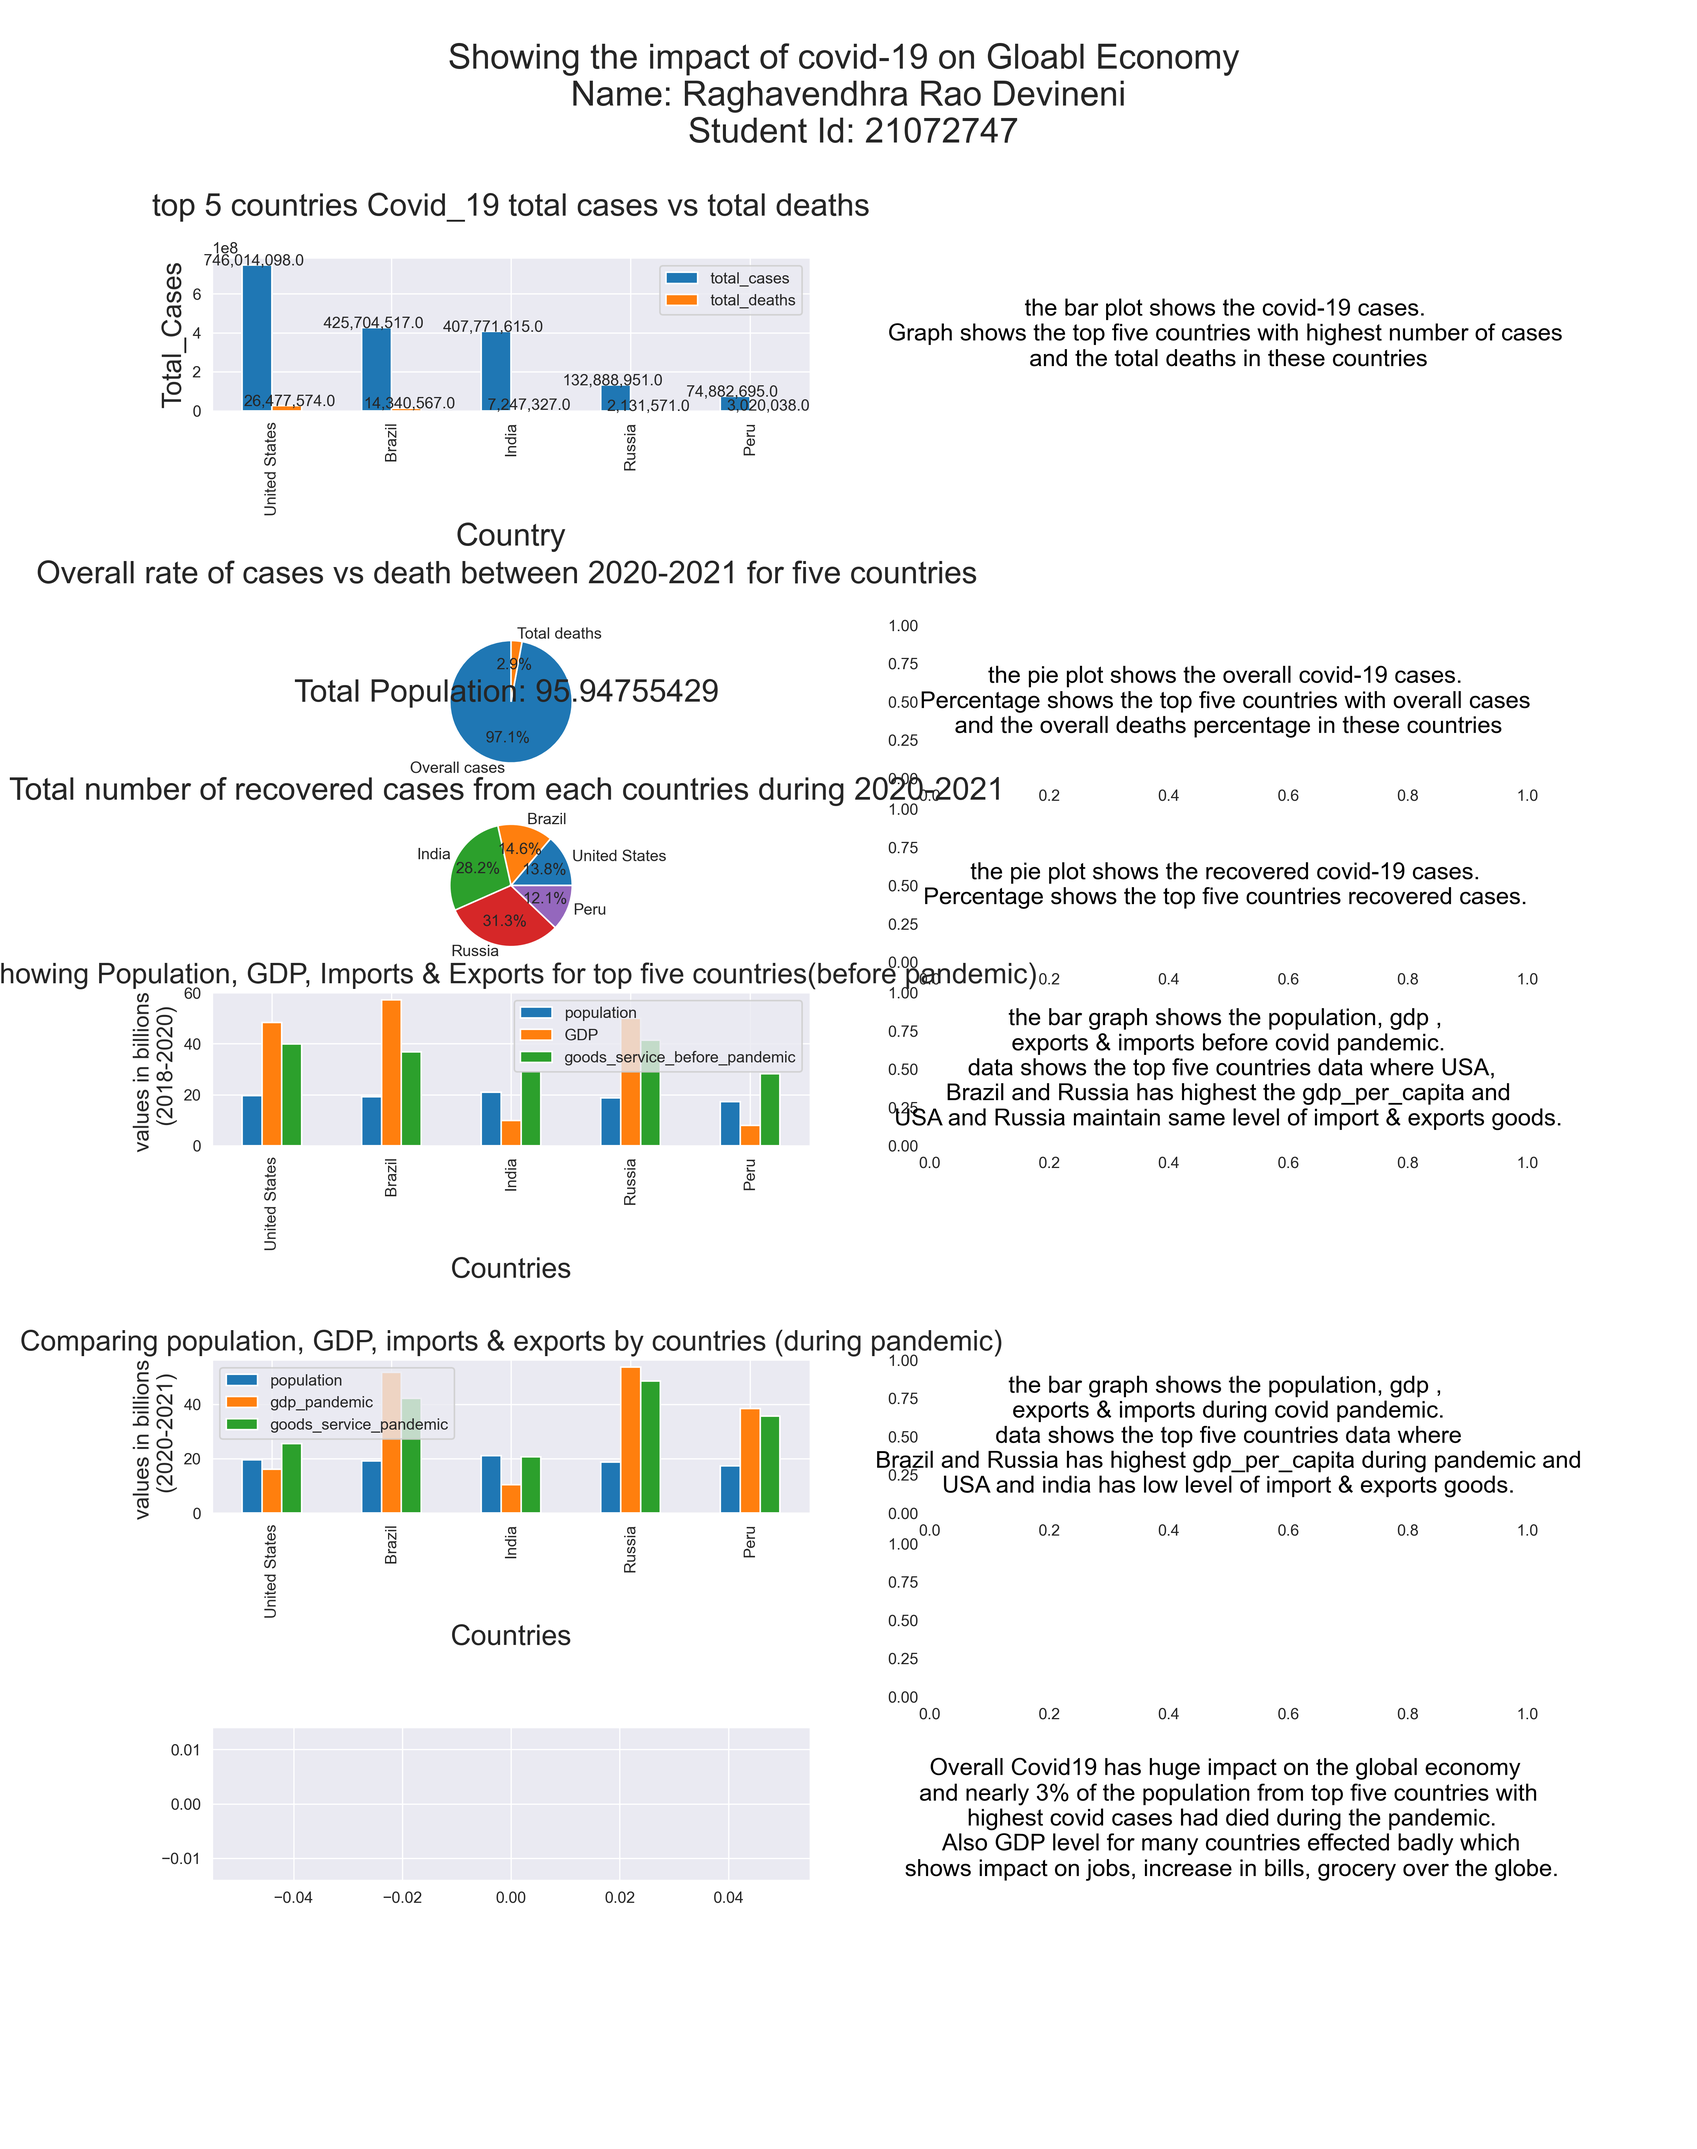
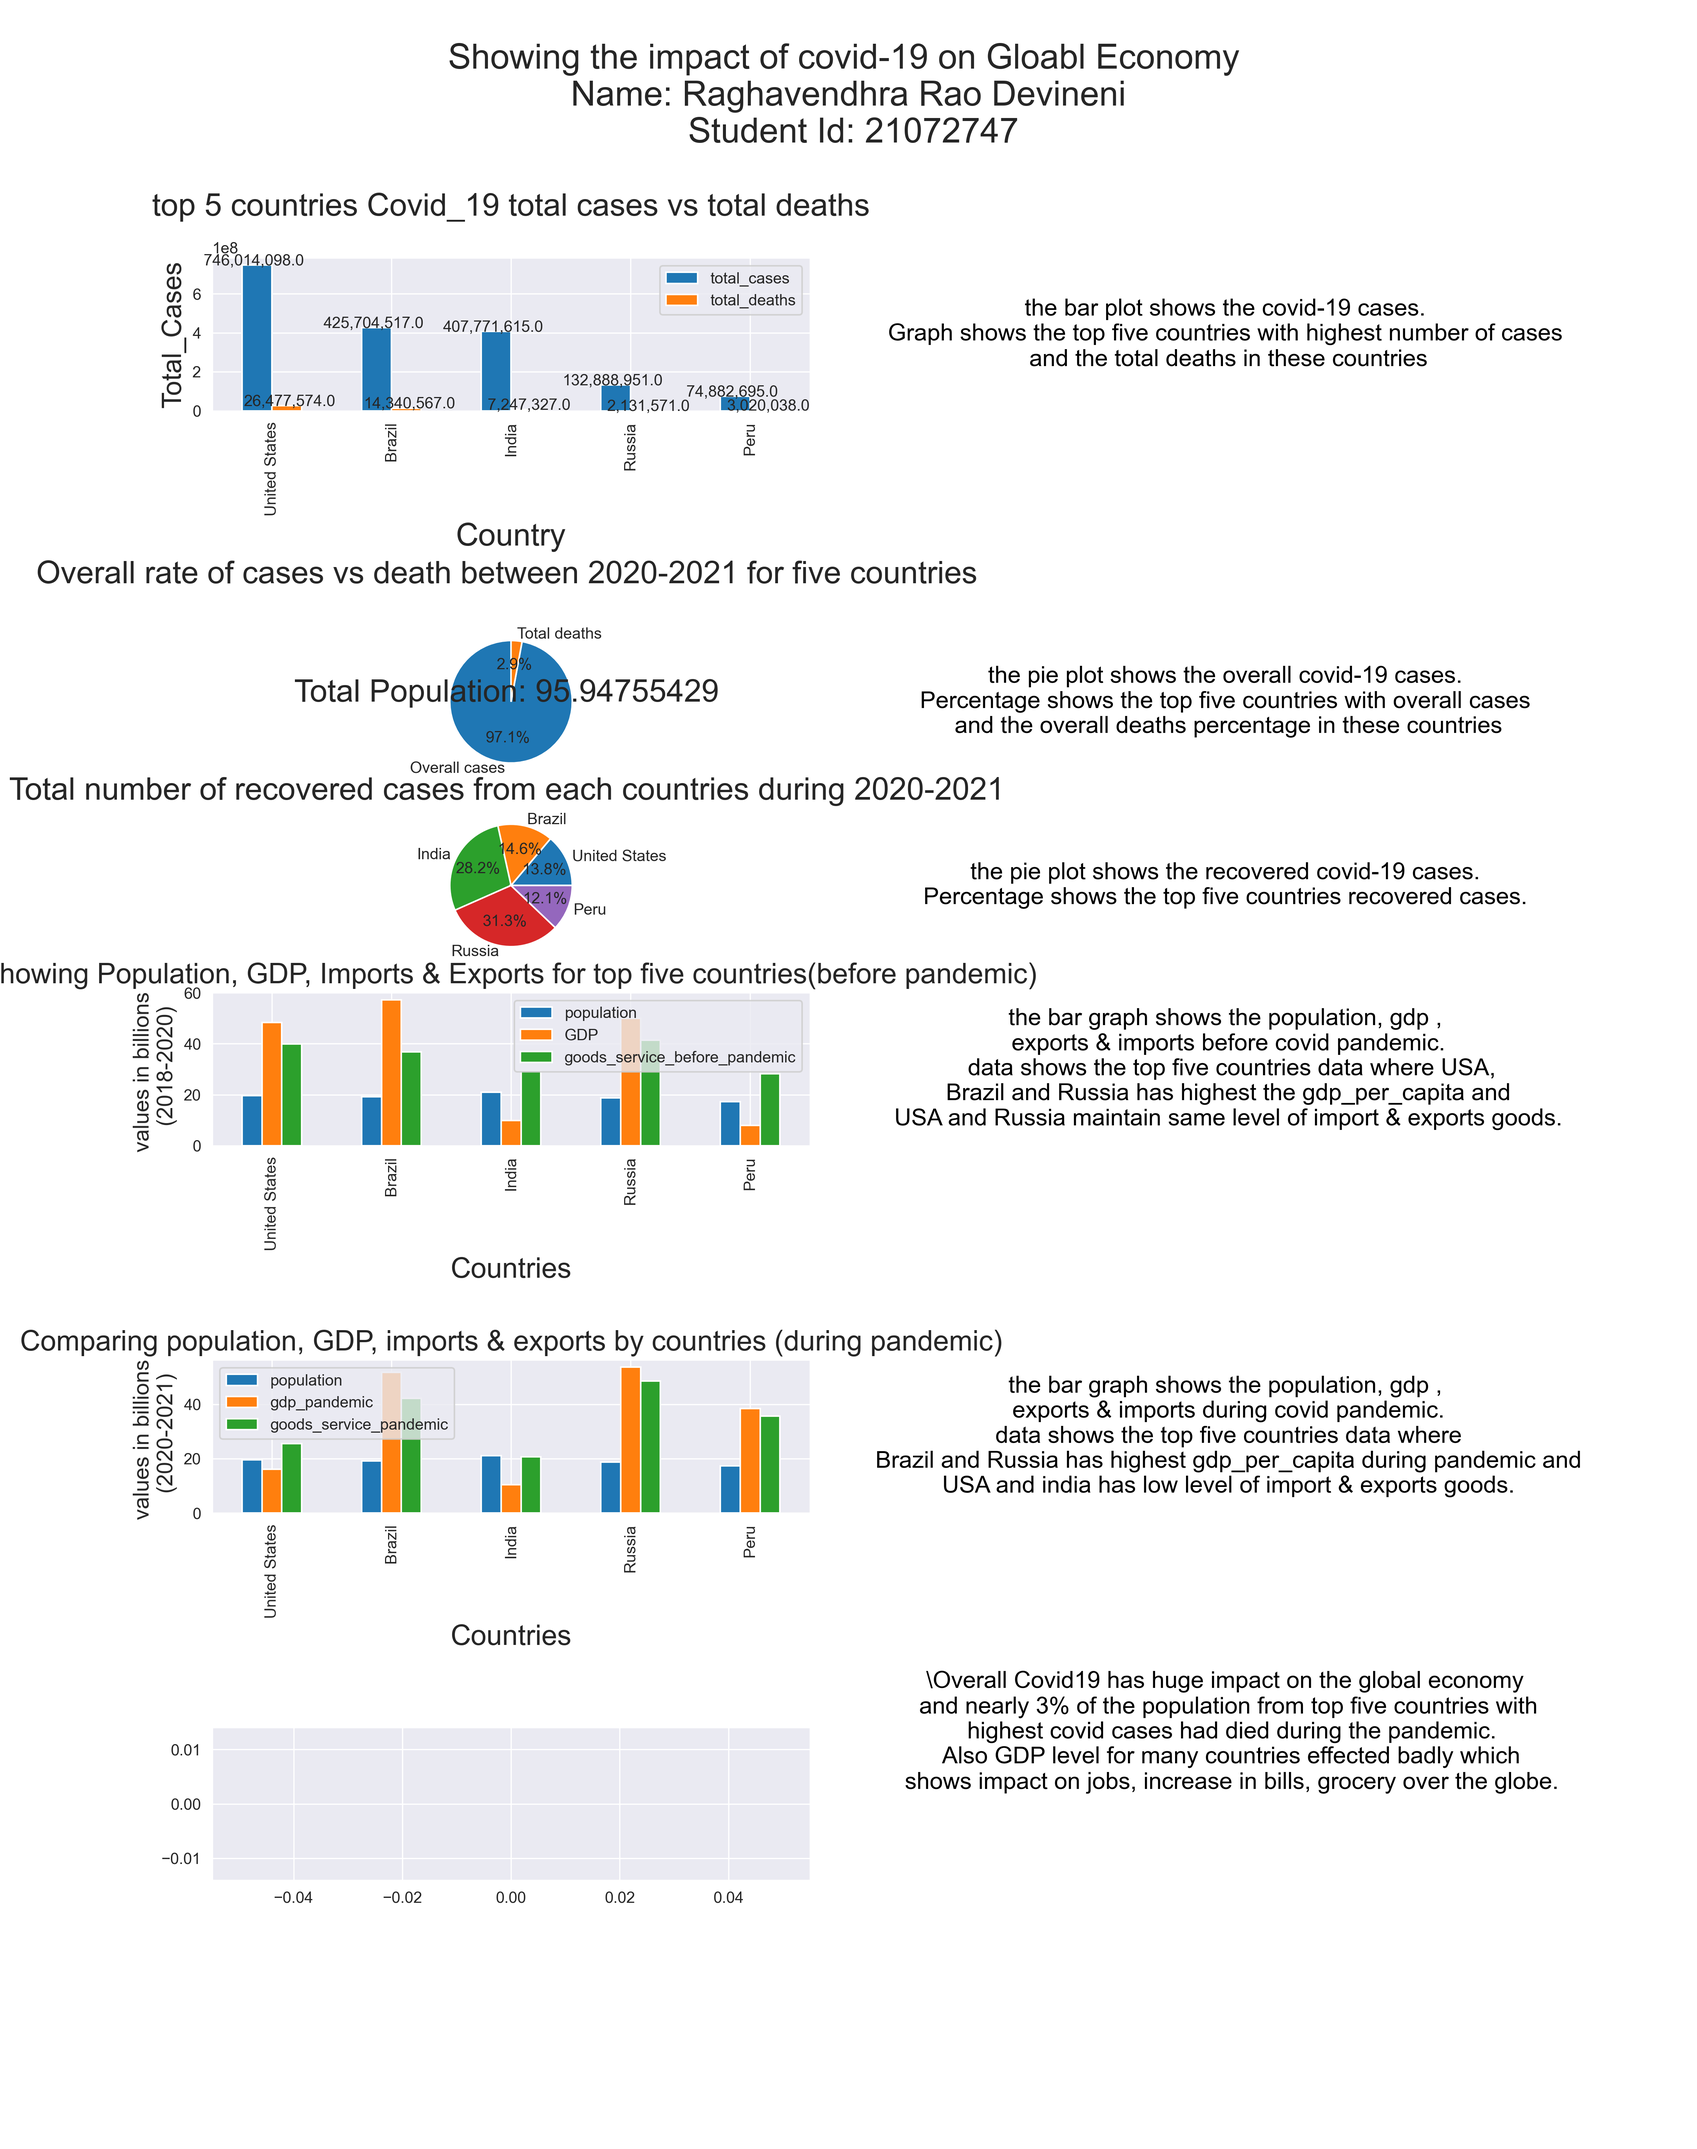
third commit

Changed region(s): [[0.5289, 0.7807, 0.9022, 0.8744]]

diff --git a/infographic.py b/infographic.py
@@ -221,14 +221,16 @@ def show_infographic_dashboard(gc_bar_data, gc_data, pandemic_before_imports_exp
     for x, (tc, td) in enumerate(zip(gc_bar_data['total_cases'] , gc_bar_data['total_deaths'])):
         ax1.text(x-0.15, tc + 20000, "{:,}".format(tc), ha='center',)
         ax1.text(x+0.15, td + 20000, "{:,}".format(td), ha='center',)
-    # plt.show()
+    # set the text backgroung white
     ax6.patch.set_facecolor('white')
+    # remove the spines and ticks to display only text
     ax6.spines['top'].set_visible(False)
     ax6.spines['right'].set_visible(False)
     ax6.spines['bottom'].set_visible(False)
     ax6.spines['left'].set_visible(False)
     ax6.set_xticks([])
     ax6.set_yticks([])
+    # add the text
     ax6.text(0.5, 0.5, 'the bar plot shows the covid-19 cases. \n Graph shows the top five countries with highest number of cases  \n and the total deaths in these countries ', ha='center', va='center', fontsize=15, color='black')
     
     # summing up total_cases
@@ -250,9 +252,16 @@ def show_infographic_dashboard(gc_bar_data, gc_data, pandemic_before_imports_exp
     plt.axis('equal')
     # creating title
     ax2.set_title("Overall rate of cases vs death between 2020-2021 for five countries \n", fontsize=20)
-    # # show the plot
+    # set the text background white
     ax7.patch.set_facecolor('white')
-   
+    # remove the spines and ticks to display only text
+    ax7.spines['top'].set_visible(False)
+    ax7.spines['right'].set_visible(False)
+    ax7.spines['bottom'].set_visible(False)
+    ax7.spines['left'].set_visible(False)
+    ax7.set_xticks([])
+    ax7.set_yticks([])
+    # adding the text
     ax7.text(0.5, 0.5, 'the pie plot shows the overall covid-19 cases. \n Percentage shows the top five countries with overall cases  \n and the overall deaths percentage in these countries ', ha='center', va='center', fontsize=15, color='black')
     
 
@@ -265,7 +274,16 @@ def show_infographic_dashboard(gc_bar_data, gc_data, pandemic_before_imports_exp
     ax3.pie(recovered_percentages, labels= gc_data['Country'], autopct='%1.1f%%')
     # creating the title
     ax3.set_title("Total number of recovered cases from each countries during 2020-2021 ", fontsize=20)
+    # set the text background white
     ax8.patch.set_facecolor('white')
+    # remove the spines and ticks to display only text
+    ax8.spines['top'].set_visible(False)
+    ax8.spines['right'].set_visible(False)
+    ax8.spines['bottom'].set_visible(False)
+    ax8.spines['left'].set_visible(False)
+    ax8.set_xticks([])
+    ax8.set_yticks([])
+    # adding the text
     ax8.text(0.5, 0.5, 'the pie plot shows the recovered covid-19 cases. \n Percentage shows the top five countries recovered cases.  ', ha='center', va='center', fontsize=15, color='black')
     
     
@@ -276,7 +294,16 @@ def show_infographic_dashboard(gc_bar_data, gc_data, pandemic_before_imports_exp
     ax4.set_xlabel("Countries", fontsize=18)
     ax4.set_ylabel("values in billions \n (2018-2020)", fontsize=14)
     ax4.set_title("showing Population, GDP, Imports & Exports for top five countries(before pandemic)",fontsize=18 )
+    # set the text background white
     ax9.patch.set_facecolor('white')
+    # remove the spines and ticks to display only text
+    ax9.spines['top'].set_visible(False)
+    ax9.spines['right'].set_visible(False)
+    ax9.spines['bottom'].set_visible(False)
+    ax9.spines['left'].set_visible(False)
+    ax9.set_xticks([])
+    ax9.set_yticks([])
+    # adding the text
     ax9.text(0.5, 0.5, 'the bar graph shows the population, gdp , \n exports & imports before covid pandemic. \n data shows the top five countries data where USA,\n Brazil and Russia has highest the gdp_per_capita and \n USA and Russia maintain same level of import & exports goods. ', ha='center', va='center', fontsize=15, color='black')
     
     
@@ -288,11 +315,29 @@ def show_infographic_dashboard(gc_bar_data, gc_data, pandemic_before_imports_exp
     ax5.set_xlabel("Countries", fontsize=18)
     ax5.set_ylabel("values in billions \n (2020-2021)", fontsize=14)
     ax5.set_title("Comparing population, GDP, imports & exports by countries (during pandemic)", fontsize=18)
+    # set the text background white
     ax10.patch.set_facecolor('white')
+    # remove the spines and ticks to display only text
+    ax10.spines['top'].set_visible(False)
+    ax10.spines['right'].set_visible(False)
+    ax10.spines['bottom'].set_visible(False)
+    ax10.spines['left'].set_visible(False)
+    ax10.set_xticks([])
+    ax10.set_yticks([])
+    # adding the text
     ax10.text(0.5, 0.5, 'the bar graph shows the population, gdp , \n exports & imports during covid pandemic. \n data shows the top five countries data where \n Brazil and Russia has highest gdp_per_capita during pandemic and \n USA and india has low level of import & exports goods. ', ha='center', va='center', fontsize=15, color='black')
     
+    # set the text background white
     ax11.patch.set_facecolor('white')
-    ax11.text(0.5, 0.5, '\n\n\n\n\n\n \n\n\n\n\n\n \n\n\n\nOverall Covid19 has huge impact on the global economy \n and nearly 3% of the population from top five countries with \n  highest covid cases had died during the pandemic. \n Also GDP level for many countries effected badly which\n shows impact on jobs, increase in bills, grocery over the globe.', ha='center', va='center', fontsize=15, color='black')
+    # remove the spines and ticks to display only text
+    ax11.spines['top'].set_visible(False)
+    ax11.spines['right'].set_visible(False)
+    ax11.spines['bottom'].set_visible(False)
+    ax11.spines['left'].set_visible(False)
+    ax11.set_xticks([])
+    ax11.set_yticks([])
+    # adding the text
+    ax11.text(0.5, 0.5, '\n\n\n\n\n\n \n\n\n\Overall Covid19 has huge impact on the global economy \n and nearly 3% of the population from top five countries with \n  highest covid cases had died during the pandemic. \n Also GDP level for many countries effected badly which\n shows impact on jobs, increase in bills, grocery over the globe.', ha='center', va='center', fontsize=15, color='black')
       
     
     # # show the plot
